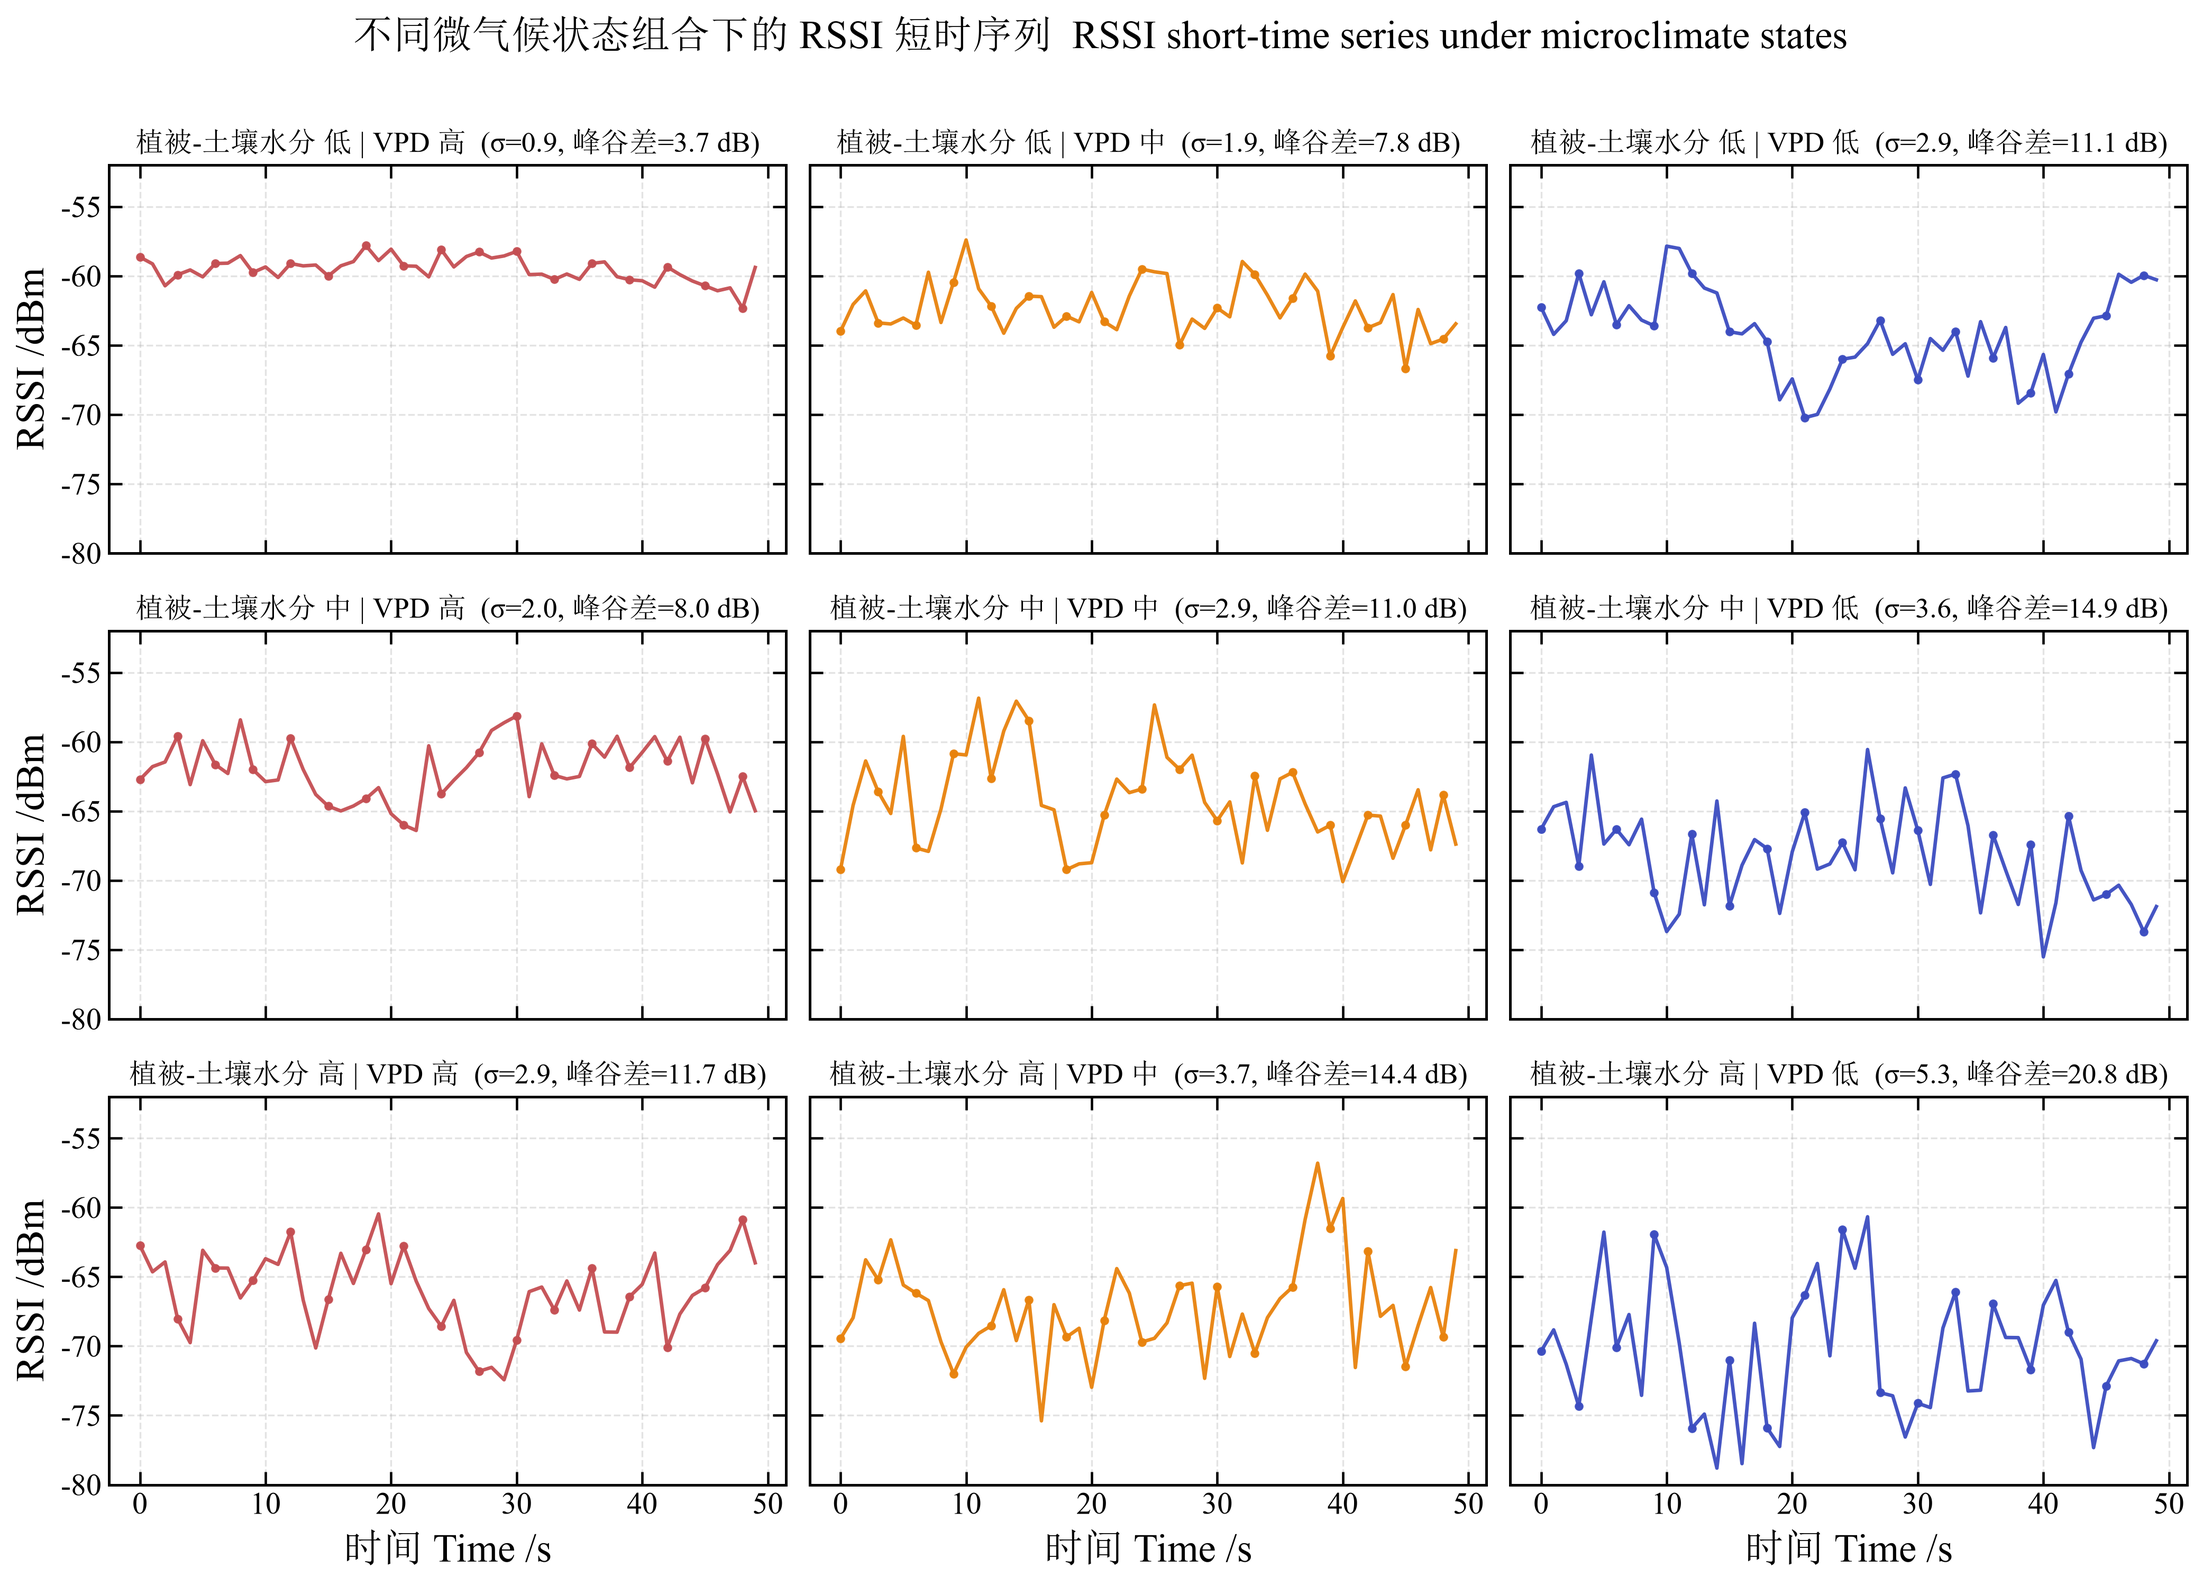
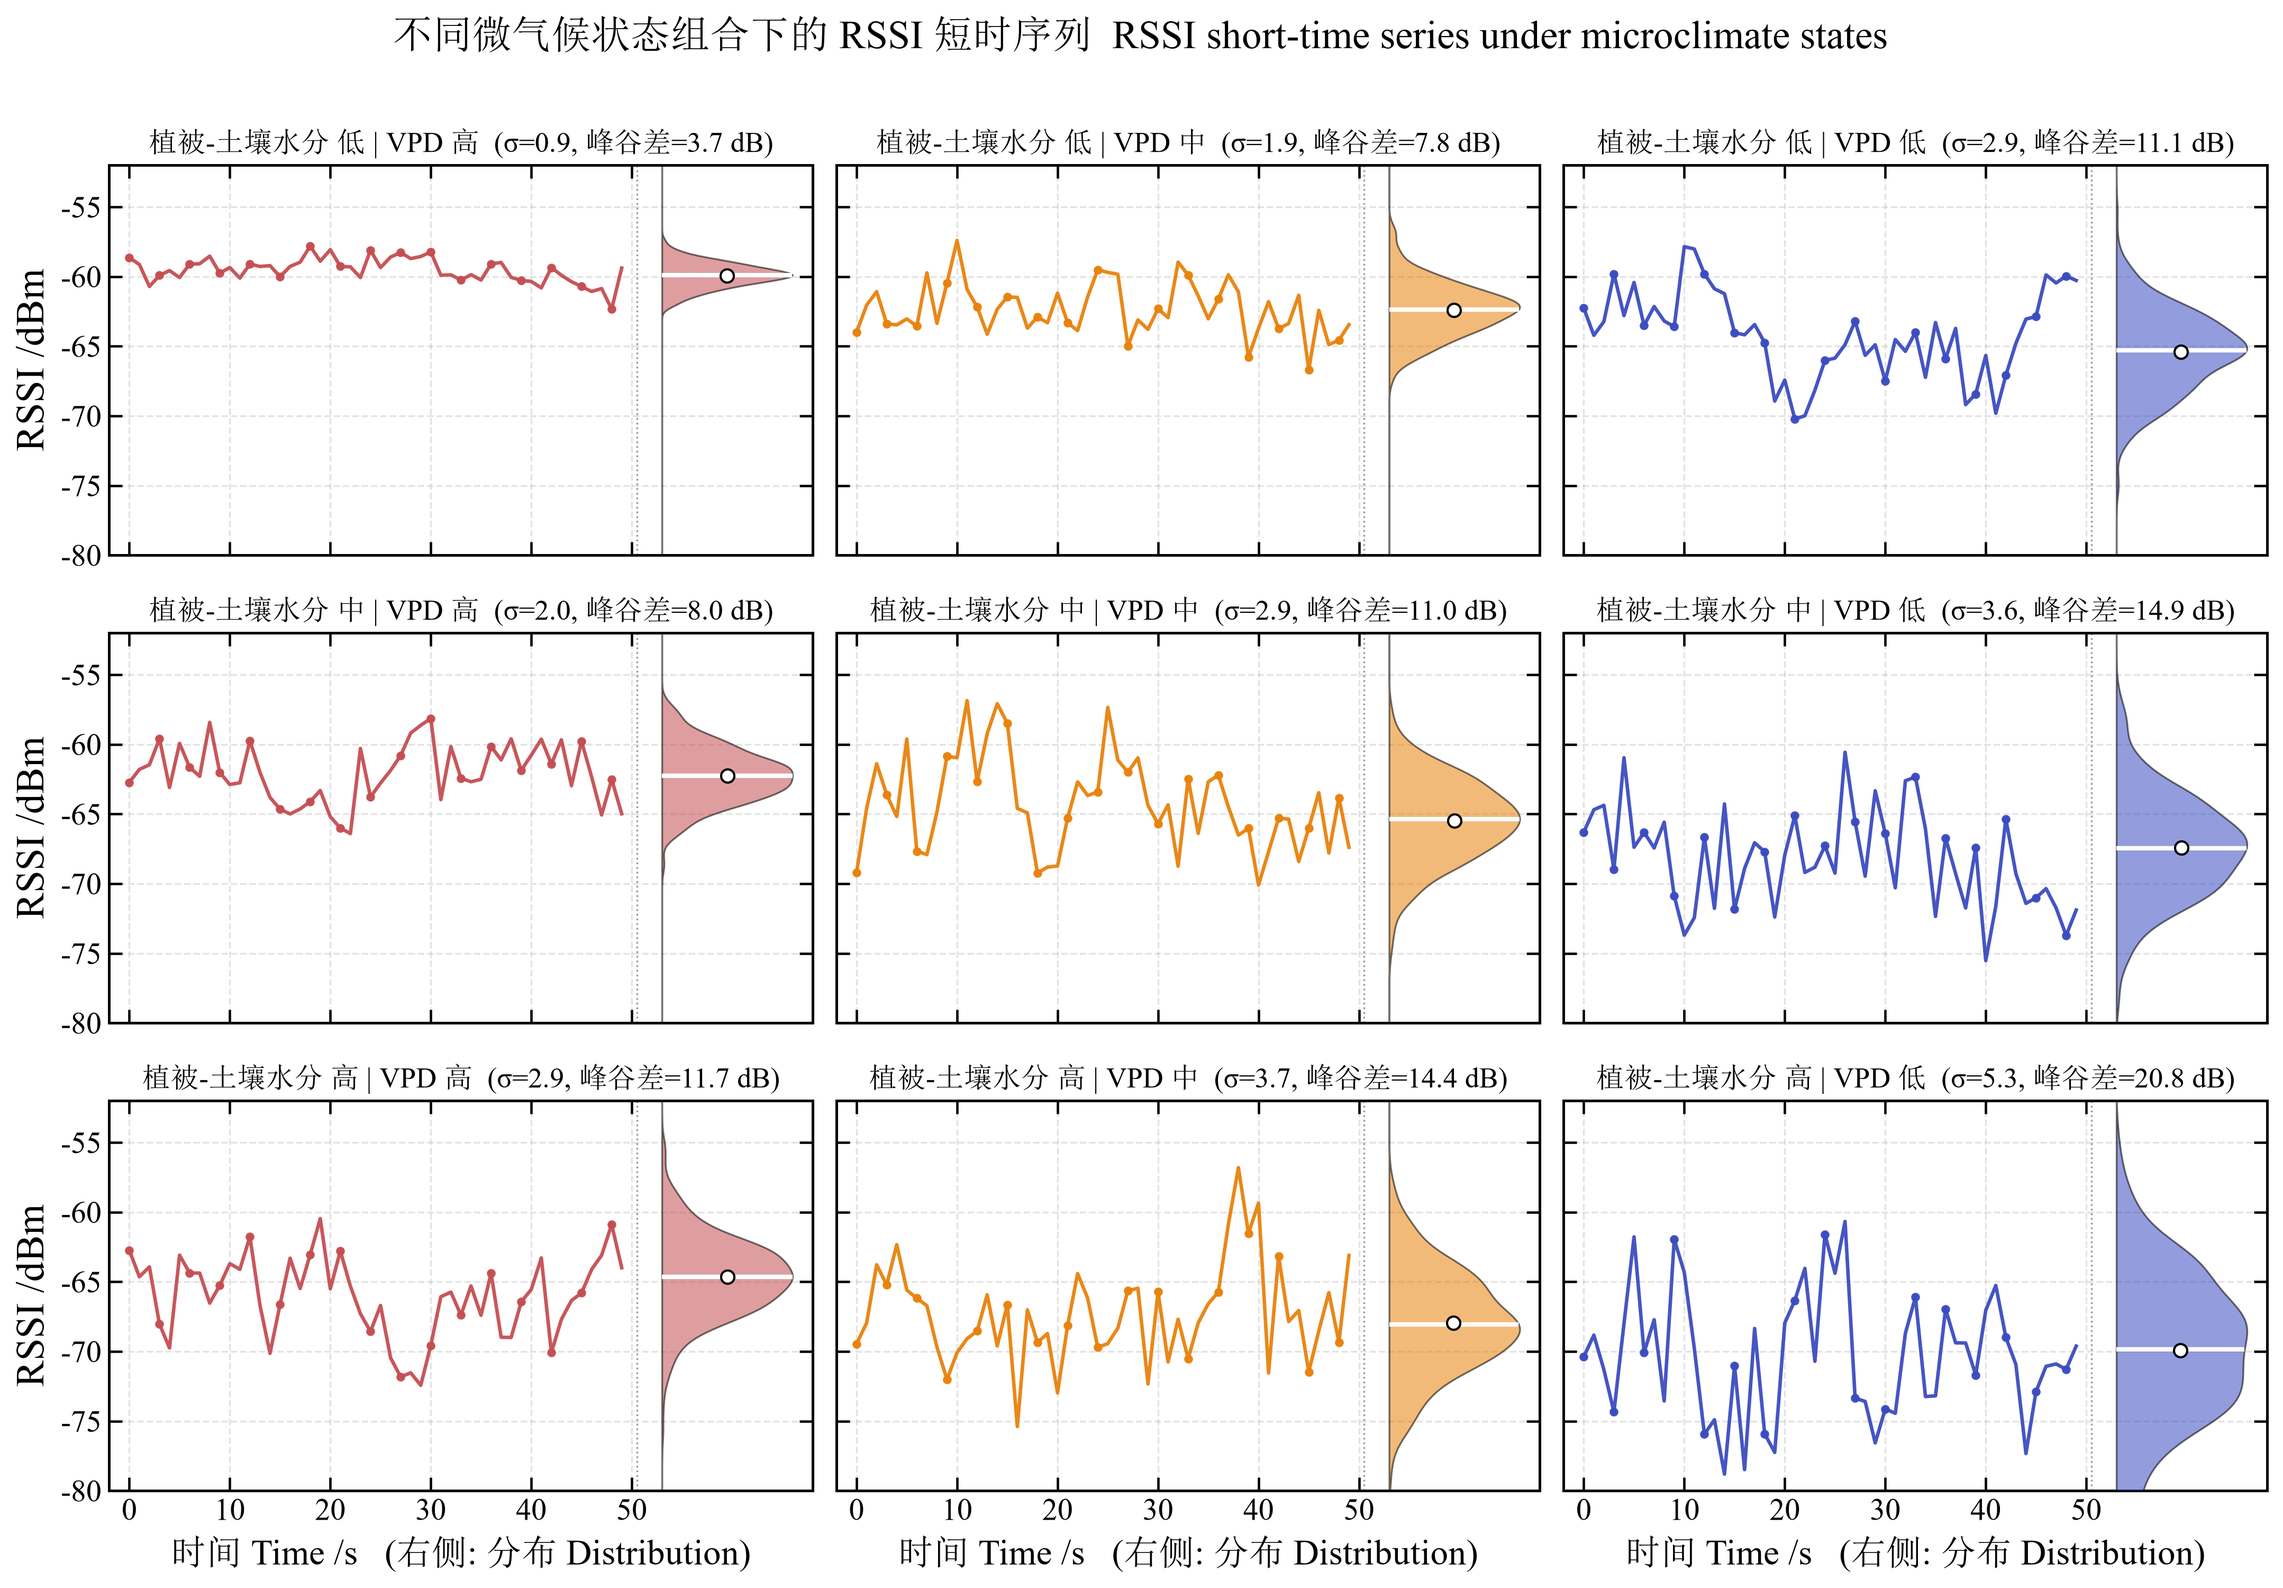
Integrate marginal violins into microclimate RSSI grid (per-state distribution + mean/median)

diff --git a/microclimate/rssi_microclimate.py b/microclimate/rssi_microclimate.py
@@ -27,6 +27,7 @@ Outputs (project style: SimSun + Times New Roman, full frame, inward ticks):
 """
 import csv
 import numpy as np
+from scipy.stats import gaussian_kde
 import matplotlib
 matplotlib.use("Agg")
 import matplotlib.pyplot as plt
@@ -146,23 +147,40 @@ with open("C:/Users/Administrator/micro_state_stats.csv", "w", newline="", encod
 row_order = ["低 Low", "中 Mid", "高 High"]          # moisture: dry -> wet
 col_order = ["高 High", "中 Mid", "低 Low"]          # VPD: dry -> humid
 t = np.arange(N)
-fig, axes = plt.subplots(3, 3, figsize=(14, 10), sharex=True, sharey=True)
+X0, XW = 53.0, 13.0          # half-violin anchor x and width on the right margin
+fig, axes = plt.subplots(3, 3, figsize=(14.5, 10), sharex=True, sharey=True)
 for r, mois in enumerate(row_order):
     for c, vpd_l in enumerate(col_order):
         ax = axes[r, c]
         y = series_grid[(mois, vpd_l)]
+        pop = populations[(mois, vpd_l)]
         color = COL_VPD[vpd_l]
+        # time-series (left)
         ax.plot(t, y, color=color, lw=1.6, marker="o", markersize=3,
                 markevery=3, alpha=0.95)
+        # marginal half-violin (right) -- distribution of RSSI for this state
+        yy = np.linspace(-80, -52, 200)
+        dens = gaussian_kde(pop)(yy)
+        dens = dens / dens.max() * XW
+        ax.fill_betweenx(yy, X0, X0 + dens, facecolor=color, alpha=0.55,
+                         edgecolor="black", lw=0.8, zorder=3)
+        med = np.median(pop); mean = np.mean(pop)
+        ax.hlines(med, X0, X0 + np.interp(med, yy, dens), color="white",
+                  lw=2.0, zorder=4)
+        ax.plot(X0 + np.interp(mean, yy, dens) * 0.5, mean, "o", color="white",
+                markeredgecolor="black", markersize=6, zorder=5)
+        ax.axvline(50.5, color="0.6", lw=0.8, ls=":")
         st = stats[(mois, vpd_l)]
         ax.set_title(f"\u690d\u88ab-\u571f\u58e4\u6c34\u5206 {mois.split()[0]} | VPD {vpd_l.split()[0]}"
                      f"  (\u03c3={st['std']:.1f}, \u5cf0\u8c37\u5dee={st['p2p']:.1f} dB)",
                      fontsize=13)
         ax.set_ylim(-80, -52)
+        ax.set_xlim(-2, X0 + XW + 2)
+        ax.set_xticks([0, 10, 20, 30, 40, 50])
         ax.grid(True, linestyle="--", alpha=0.35)
         style(ax, fs=14)
 for c in range(3):
-    axes[2, c].set_xlabel("\u65f6\u95f4 Time /s", fontsize=18)
+    axes[2, c].set_xlabel("\u65f6\u95f4 Time /s   (\u53f3\u4fa7: \u5206\u5e03 Distribution)", fontsize=16)
 for r in range(3):
     axes[r, 0].set_ylabel("RSSI /dBm", fontsize=18)
 fig.suptitle("\u4e0d\u540c\u5fae\u6c14\u5019\u72b6\u6001\u7ec4\u5408\u4e0b\u7684 RSSI \u77ed\u65f6\u5e8f\u5217  "
